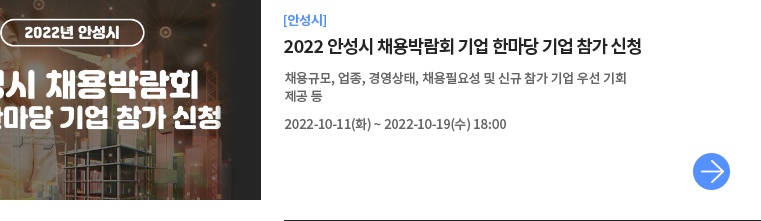
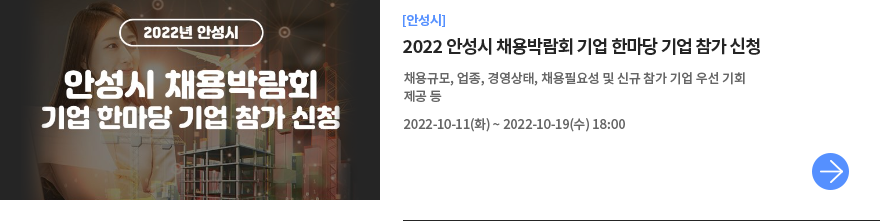
탐나는기업 뉴스레터 vol 28

diff --git a/html/wz/corp28.html b/html/wz/corp28.html
@@ -19,7 +19,7 @@
                     <table align="center" border="0" cellpadding="0" cellspacing="0" style="max-width: 780px;width: 100%; table-layout: fixed;padding: 0px;margin: 0;margin-left: auto;margin-right: auto;border-collapse: collapse;line-height:0;font-size:0;">
                         <tr>
                             <td style="background: #f2f2f2" colspan="2">
-                                <img src="https://cdn.jsdelivr.net/gh/kang2oon/jobaba2022/html/wz/images/corp28/corp28_01.png" alt="JOBABA 탐나는기업 NEWSLETTER 해당 뉴스레터는 잡아바의 탐나는기업 콘텐츠 제작 지원사업에 참여한 기업 대상으로 발송됩니다." style="max-width: 100%;width: 100%" class="g-img">
+                                <img src="https://jobaba.net//resource/images/web/2022/10/12/1665549138196_2230822156.png" alt="JOBABA 탐나는기업 NEWSLETTER 해당 뉴스레터는 잡아바의 탐나는기업 콘텐츠 제작 지원사업에 참여한 기업 대상으로 발송됩니다." style="max-width: 100%;width: 100%" class="g-img">
                             </td>
                         </tr>
                         <tr>
@@ -47,23 +47,21 @@
                         </tr>
                         <tr>
                             <td colspan="2">
-                                <a href="https://www.jobaba.net/sprtPlcy/info/view2020.do?seq=9211" target="_blank">
-                                    <img src="https://cdn.jsdelivr.net/gh/kang2oon/jobaba2022/html/wz/images/corp27/corp27_02.png" alt="
-2022년 경기청년 맞춤형 
-채용지원 서비스 사업 3차 
-참여기업 모집
+                                <a href="https://www.jobaba.net/sprtPlcy/info/view2020.do?seq=9319" target="_blank">
+                                    <img src="https://jobaba.net/resource/images/web/2022/10/12/1665549209198_7503457312.png" alt="[경기도]2022 면접수당 지급기업 인증 모집(하반기)
+자격: 경기도 소재(본사 또는 주공장) 중소ㆍ중견기업
+기간 : 2022. 10. 4.(화) 09:00 ~ 10. 14.(금) 18:00
+
 " style="margin:0;padding:0;vertical-align:top;border:0;max-width:100%;">
                                 </a>
                             </td>
                         </tr>
                         <tr>
                             <td colspan="2">
-                                <a href="https://www.jobaba.net/sprtPlcy/info/view2020.do?seq=9175" target="_blank">
-                                    <img src="https://cdn.jsdelivr.net/gh/kang2oon/jobaba2022/html/wz/images/corp27/corp27_11.png" alt="
-22022년 경력단절 예방지원사업 
-여성 고용유지지원 '재직자 소진방지 워크숍' 
-참여기업 모집
-" style="margin:0;padding:0;vertical-align:top;border:0;max-width:100%;">
+                                <a href="https://www.jobaba.net/sprtPlcy/info/view2020.do?seq=9308" target="_blank">
+                                    <img src="https://jobaba.net/resource/images/web/2022/10/12/1665549229939_6277626543.png" alt="2022년 HACCP 전문인력 양성과정
+대상 : 식품 품질관리 전문인력 채용을 원하는 기업
+2022-09-22(목) 0:00 ~ 2023-03-31(금)" style="margin:0;padding:0;vertical-align:top;border:0;max-width:100%;">
                                 </a>
                             </td>
                         </tr>
@@ -75,18 +73,19 @@
                                 <table>
                                     <tr>
                                         <td style="vertical-align: top;text-align: center;padding-right: 15px;">
-                                            <a href="https://www.jobaba.net/thema/themeInfo.do" target="_blank">
-                                                <img src="https://cdn.jsdelivr.net/gh/kang2oon/jobaba2022/html/wz/images/corp27/corp27_12.png" alt="고용안정 선제대응 패키지 지원사업이란?" style="margin:0;padding: 0;vertical-align:top;border:0;max-width:100%;">
+                                            <a href="https://www.jobaba.net/sprtPlcy/info/view2020.do?seq=9278" target="_blank">
+                                                <img src="https://jobaba.net//resource/images/web/2022/10/12/1665549271168_3819342031.png" alt="2022년 경기도 소상공인 사업정리 지원사업(재기장려금)" style="margin:0;padding: 0;vertical-align:top;border:0;max-width:100%;">
                                             </a>
                                         </td>
                                         <td style="vertical-align: top;text-align: center;padding: 0 15px;">
-                                            <a href="https://www.jobaba.net/sprtPlcy/info/view2020.do?seq=9181" target="_blank">
-                                                <img src="https://cdn.jsdelivr.net/gh/kang2oon/jobaba2022/html/wz/images/corp27/corp27_05.png" alt="2023년 청년친화강소기업" style="margin:0;padding:0;vertical-align:top;border:0;max-width:100%;">
+                                            <a href="https://www.bizinfo.go.kr/web/lay1/bbs/S1T122C128/AS/74/view.do?pblancId=PBLN_000000000081037" target="_blank">
+                                                <img src="https://jobaba.net/resource/images/web/2022/10/12/1665549297802_3300496371.png" alt="2022년 경기 스타트업 Come Up 대기업 비즈 매칭 프로그램 
+참여기업 모집 공고" style="margin:0;padding:0;vertical-align:top;border:0;max-width:100%;">
                                             </a>
                                         </td>
                                         <td style="vertical-align: top;text-align: center;padding-left: 15px;">
-                                            <a href="https://www.jobaba.net/fntn/dtl2020.do?seq=26195" target="_blank">
-                                                <img src="https://cdn.jsdelivr.net/gh/kang2oon/jobaba2022/html/wz/images/corp27/corp27_06.png" alt="2022 K-ROBOT O2O Fair (로봇 온라인 전시회) 경기도관" style="margin:0;padding:0;vertical-align:top;border:0;max-width:100%;">
+                                            <a href="https://www.bizinfo.go.kr/web/lay1/bbs/S1T122C128/AS/74/view.do?pblancId=PBLN_000000000080990" target="_blank">
+                                                <img src="https://jobaba.net/resource/images/web/2022/10/12/1665549323563_4399385897.png" alt="2022년 10월 경기행복샵 네이버 스마트스토어 수수료 할인 신규입점 모집 공고" style="margin:0;padding:0;vertical-align:top;border:0;max-width:100%;">
                                             </a>
                                         </td>
                                     </tr>
@@ -98,39 +97,36 @@
                         </tr>                    
                         <tr>
                             <td colspan="2" style="text-align: center; padding: 0 10px;">
-                                <a href="https://www.jobaba.net/sprtPlcy/info/view2020.do?seq=9241" target="_blank">
-                                    <img src="https://cdn.jsdelivr.net/gh/kang2oon/jobaba2022/html/wz/images/corp27/corp27_14.png" alt="
-[군포시]
-2022년 제4차 중소기업 육성자금 지원
-중소기업기본법 및 동법 시행령에 따른 중소기업으로
-지원신청일 현재 관내 사업자 등록 및 공장등록을 필한 제조업체
-2022-09-19(월) ~ 2022-10-12(수) 16:00 까지
+                                <a href="https://www.jobaba.net/sprtPlcy/info/view2020.do?seq=9363" target="_blank">
+                                    <img src="https://jobaba.net//resource/images/web/2022/10/12/1665549639992_6867237061.png" alt="
+[의왕시] 
+2022년 의왕시 소상공인 경영환경개선사업(2차) 공고
+- 의왕시 내 창업 6개월 이상 영업 및 전년도 연매출액 10억원 미만 사업자
+2022-10-17(월) ~ 2022-10-19(수) 
 " style="margin:0;padding:0;vertical-align:top;border:0;max-width:100%;">
                                 </a>
                             </td>
                         </tr>
                         <tr>
                             <td colspan="2" style="text-align: center; padding:20px 10px 0 10px;">
-                                <a href="https://www.jobaba.net/sprtPlcy/info/view2020.do?seq=9153" target="_blank">
-                                    <img src="https://cdn.jsdelivr.net/gh/kang2oon/jobaba2022/html/wz/images/corp27/corp27_08.png" alt="
-[여주시]
-2023년 소규모 기업환경 개선사업
-기반시설 개선사업, 노동환경 개선사업, 작업환경 개선사업 등 
-3개 사업에 대한 신청 
-2022-08-18(목) ~ 2022-09-16(금)
+                                <a href="https://www.jobaba.net/sprtPlcy/info/view2020.do?seq=9365" target="_blank">
+                                    <img src="https://jobaba.net/resource/images/web/2022/10/12/1665549652509_2822558206.png" alt="
+[안성시] 
+2022 안성시 채용박람회 기업 한마당 기업 참가 신청
+ - 채용규모, 업종, 경영상태, 채용필요성 및 신규 참가 기업 우선 기회 제공 등
+2022-10-11(화) ~ 2022-10-19(수) 18:00
 " style="margin:0;padding:0;vertical-align:top;border:0;max-width:100%;">
                                 </a>
                             </td>
                         </tr>
                         <tr>
                             <td colspan="2" style="text-align:center; padding:20px 10px 0 10px;">
-                                <a href="https://www.jobaba.net/sprtPlcy/info/view2020.do?seq=9243" target="_blank">
-                                    <img src="https://cdn.jsdelivr.net/gh/kang2oon/jobaba2022/html/wz/images/corp27/corp27_13.png" alt="
-[의왕시]
-2022년 의왕시 일자리박람회 참여기업 모집
-귀사에서 필요한 인력을 알선해 드리며, 일자리 관련 정부지원사업 
-등에 대한 정보를 제공합니다.
-2022-09-01(목) ~ 2022-09-19(월) 18:00 까지
+                                <a href="https://www.jobaba.net/sprtPlcy/info/view2020.do?seq=9359" target="_blank">
+                                    <img src="https://jobaba.net/resource/images/web/2022/10/12/1665549704272_9525337000.png" alt="
+[[화성시] 
+화성시 소상공인 일상회복지원금
+ - 집합금지·영업제한을 겪은 관내 소상공인 사업주 당 50만원 현금 지급
+2022-10-11(화) ~ 2022-10-31(월) 까지
 " style="margin:0;padding:0;vertical-align:top;border:0;max-width:100%;">
                                 </a>
                             </td>
@@ -141,7 +137,7 @@
                         <tr>
                             <td colspan="2">
                                 <a href="https://www.jobaba.net/empmn/desEntNew.do" target="_blank">
-                                    <img src="https://cdn.jsdelivr.net/gh/kang2oon/jobaba2022/html/wz/images/corp27/corp27_10.png" alt="
+                                    <img src="https://jobaba.net/resource/images/web/2022/10/12/1665549726127_7732517465.png" alt="
 직원에게 사랑받는 우리회사의 특별함!
 잡아바 탐나는 기업, 지금 신청하세요!
 경기도 내 우수기업을 선정하여 기업채용(홍보) 컨텐츠를 무료로 제작해 드립니다.
